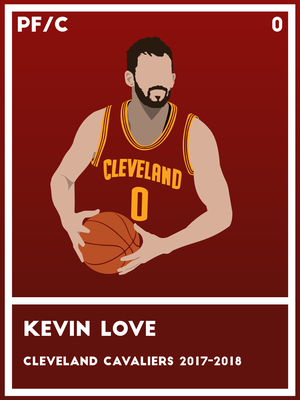
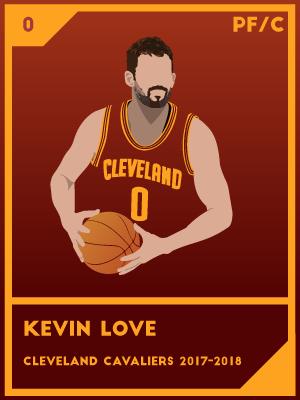
Update Kevin Love images

diff --git a/assets/js/data.js b/assets/js/data.js
@@ -1260,9 +1260,9 @@ const players_json = [{
     "position": "PF/C",
     "fgaintensity": 1,
     "fgaaverage": 12,
-    "color1": "#a33a3a",
-    "color2": "#62120c",
-    "color3": "#fda320",
+    "color1": "#A3341A",
+    "color2": "#510202",
+    "color3": "#FDA320",
     "image": "love_kevin_cleveland_cavaliers"
 }, {
     "id": "0015",
